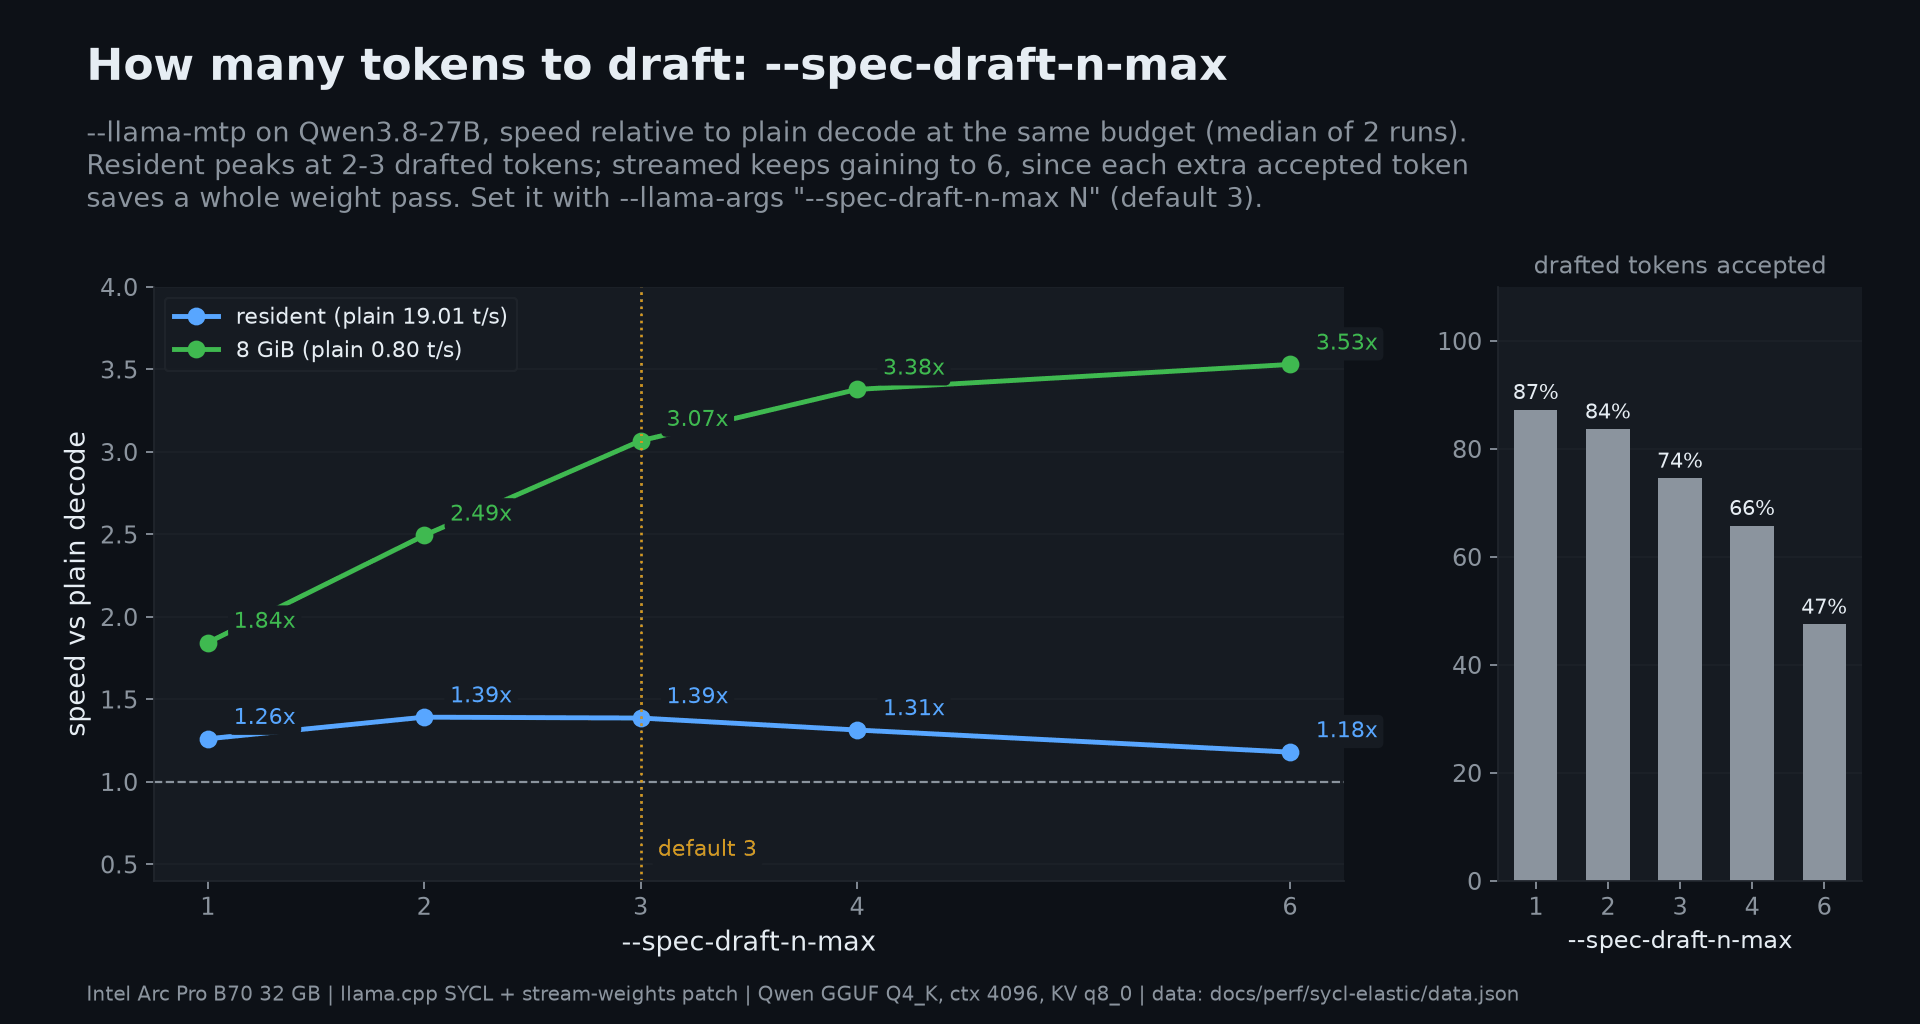
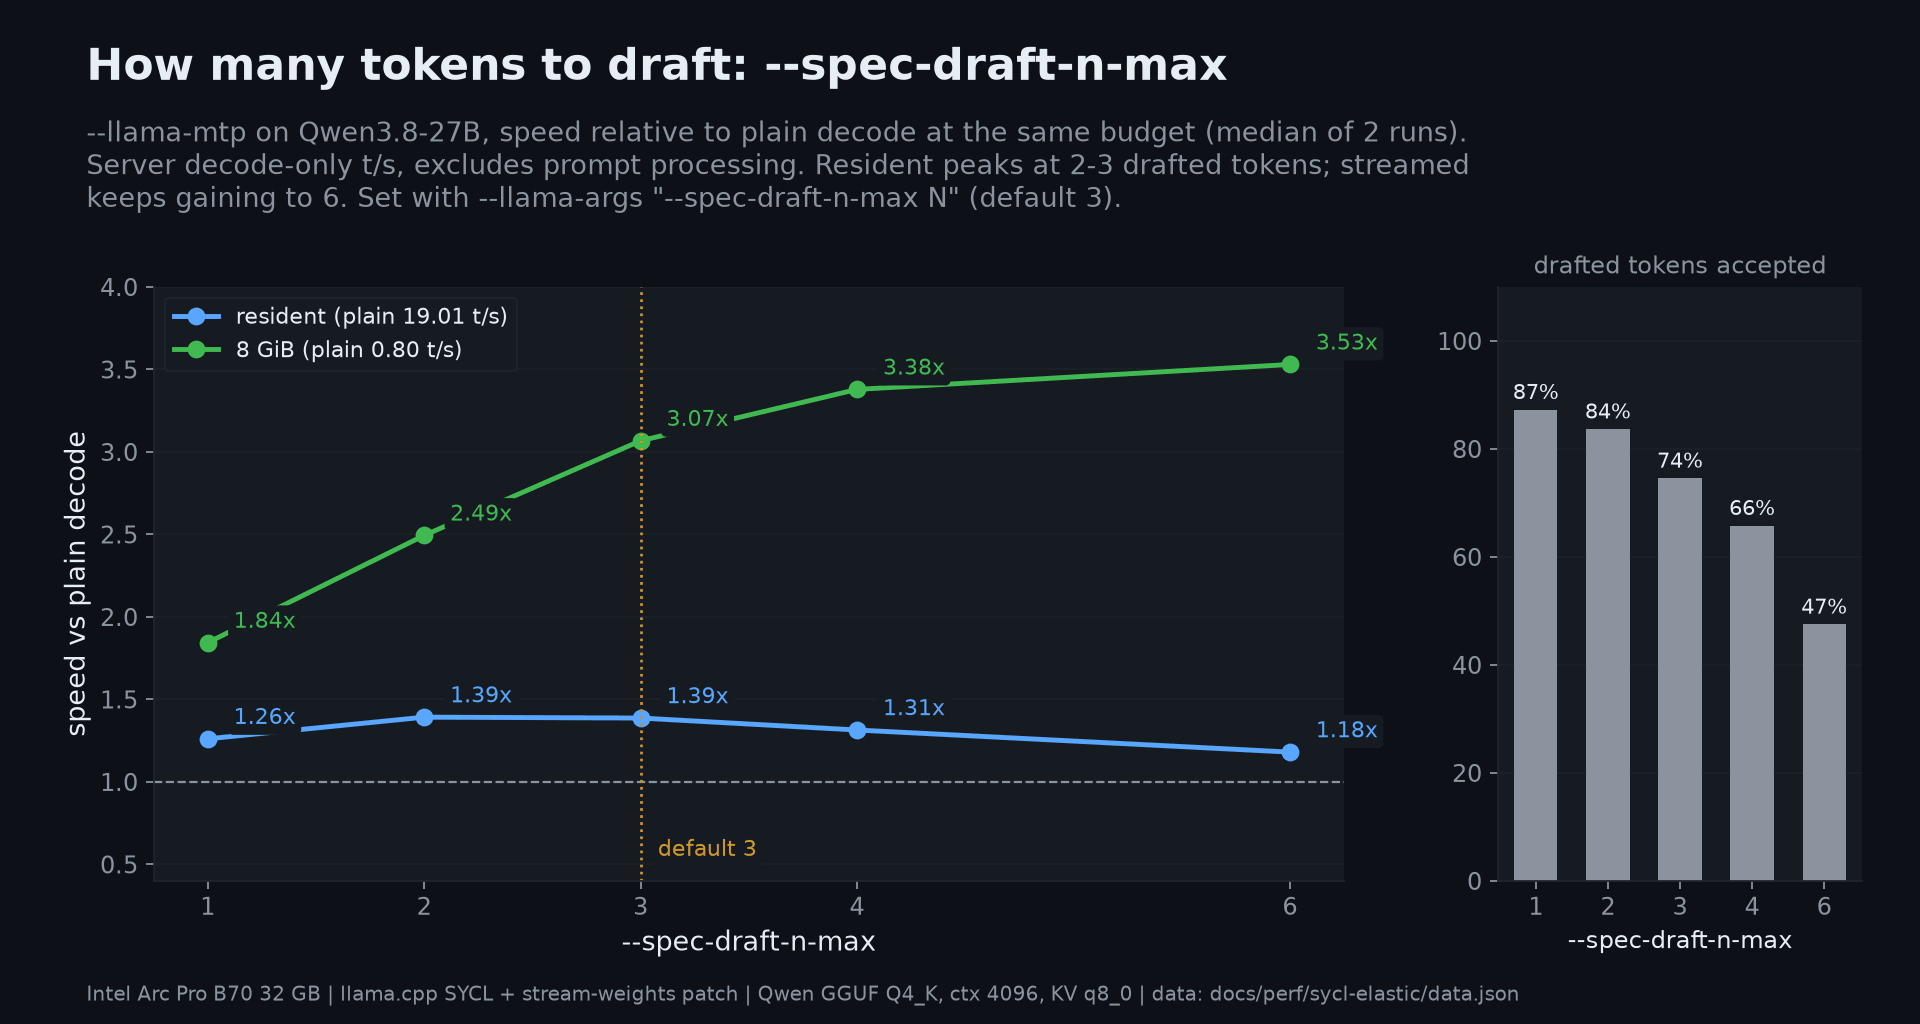
docs(sycl-llama): label the draft-length rates as server decode-only

Changed region(s): [[0.0312, 0.1562, 0.75, 0.2188]]

diff --git a/docs/perf/sycl-elastic/make_figs.py b/docs/perf/sycl-elastic/make_figs.py
@@ -999,11 +999,10 @@ def fig18():
     base = {a["arm"]: a["tps_median"] for a in DATA["mtp"]["arms"] if not a["mtp"]}
     fig = newfig(6.4)
     header(fig, "How many tokens to draft: --spec-draft-n-max",
-           "--llama-mtp on Qwen3.8-27B, speed relative to plain decode at the "
-           "same budget (median of 2 runs).\nResident peaks at 2-3 drafted tokens; "
-           "streamed keeps gaining to 6, since each extra accepted token\nsaves a "
-           "whole weight pass. Set it with --llama-args \"--spec-draft-n-max N\" "
-           "(default 3).")
+           "--llama-mtp on Qwen3.8-27B, speed relative to plain decode at the same budget "
+           "(median of 2 runs).\nServer decode-only t/s, excludes prompt processing. "
+           "Resident peaks at 2-3 drafted tokens; streamed\nkeeps gaining to 6. "
+           "Set with --llama-args \"--spec-draft-n-max N\" (default 3).")
     ax = fig.add_axes([0.08, 0.14, 0.62, 0.58])
     style_ax(ax)
     for arm, col in (("resident", BLUE), ("8 GiB", ELASTIC)):

diff --git a/docs/engines/sycl-llama.md b/docs/engines/sycl-llama.md
@@ -241,12 +241,12 @@ runs within 2.5% of the median). Chart: [fig17](../perf/sycl-elastic/fig17_mtp.p
   page-cached GGUF mapping.
 - **Draft length** is set with `--llama-args "--spec-draft-n-max N"`
   (llama-server default 3). The best value depends on the budget
-  ([fig18](../perf/sycl-elastic/fig18_mtp_draft_n.png), n=2 per point):
+  ([fig18](../perf/sycl-elastic/fig18_mtp_draft_n.png), n=2 per point). These are server decode-only tokens/s (llama-server `predicted_per_second`, excludes prompt processing), so they run higher than the client-side rates in the GPU/CPU table above:
 
   | `--spec-draft-n-max` | 1 | 2 | 3 | 4 | 6 |
   |---|---|---|---|---|---|
-  | resident, t/s | 23.9 | **26.4** | 26.3 | 25.0 | 22.4 |
-  | 8 GiB budget, t/s | 1.47 | 1.99 | 2.45 | 2.70 | **2.82** |
+  | resident, decode t/s | 23.9 | **26.4** | 26.3 | 25.0 | 22.4 |
+  | 8 GiB budget, decode t/s | 1.47 | 1.99 | 2.45 | 2.70 | **2.82** |
   | drafted tokens accepted (8 GiB) | 87% | 84% | 74% | 66% | 47% |
 
   Resident decode is compute-bound, so rejected drafts cost real time and
